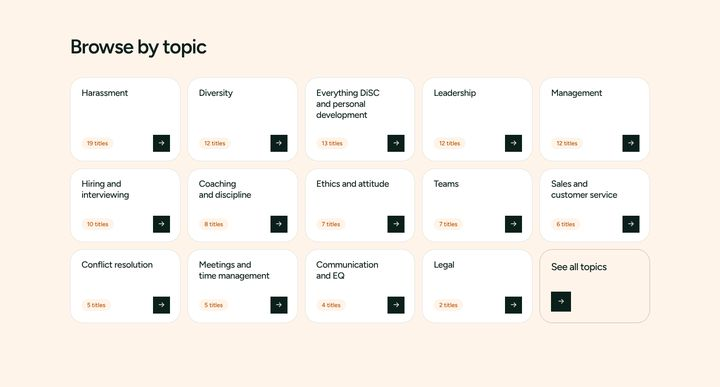
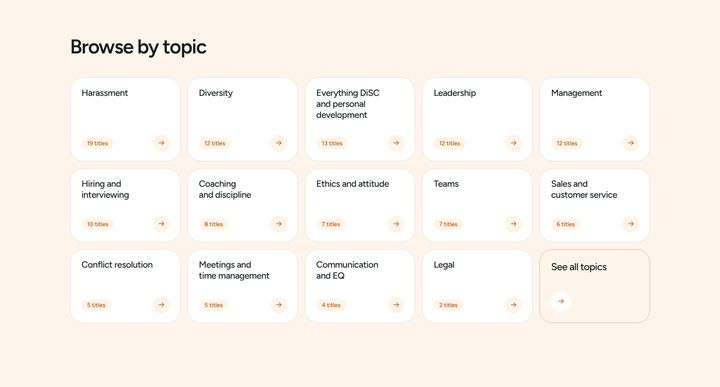
Replace black arrow buttons with soft round accent arrows; fix invalid radius rules
Claude-Session: https://claude.ai/code/session_01XfvvjyBa219y9qsxsCGa1L

diff --git a/home.html b/home.html
@@ -19,7 +19,7 @@
   --quote-bg: #2447F5; --quote-fg: #FFFFFF; --quote-muted: #D5DCFF;
   --cta-bg: #2447F5; --cta-fg: #FFFFFF; --cta-muted: #D5DCFF;
   --foot-bg: #0B1020; --foot-fg: #FFFFFF; --foot-muted: #A3ACC8;
-  --r-card: 28px; --r-img: 20px; --r-btn: 999px; --r-panel: 36px; --r-hero: 40px; --sheet: 56px;
+  --r-card: 28px; --r-img: 20px; --r-btn: 999px; --r-panel: 36px; --r-hero: 40px; --sheet: 56px; --r-round: 50%; --r-logo: 8px;
   --w-d: 500; --w-n: 300; --ls-d: -.045em;
   color-scheme: light;
   --svc-bg: #0B1020; --svc-fg: #FFFFFF; --svc-muted: #A3ACC8;
@@ -62,7 +62,7 @@
   --quote-bg: #0A0A0A; --quote-fg: #FFFFFF; --quote-muted: #BDBDBD;
   --cta-bg: #D92A0E; --cta-fg: #FFFFFF; --cta-muted: #FFFFFF;
   --foot-bg: #0A0A0A; --foot-fg: #FFFFFF; --foot-muted: #A8A8A8;
-  --r-card: 0px; --r-img: 0px; --r-btn: 0px; --r-panel: 0px; --r-hero: 0px; --sheet: 0px;
+  --r-card: 0px; --r-img: 0px; --r-btn: 0px; --r-panel: 0px; --r-hero: 0px; --sheet: 0px; --r-round: 0px; --r-logo: 0px;
   --w-d: 600; --w-n: 700; --ls-d: -.05em;
   --svc-bg: #0A0A0A; --svc-fg: #FFFFFF; --svc-muted: #BDBDBD;
 }
@@ -102,8 +102,8 @@ h2 { font-size: clamp(28px, 3vw, 40px); line-height: 1.08; font-weight: var(--w-
 .btn-ghost { border-color: currentColor; color: var(--hero-fg); opacity: .9; }
 .btn-ghost:hover { background: var(--hero-fg); color: var(--hero-bg); }
 .link { display: inline-flex; align-items: center; gap: 10px; font-weight: 500; }
-.link i { font-style: normal; width: 30px; height: 30px; border-radius: 50%; background: var(--ink); color: var(--paper); display: inline-flex; align-items: center; justify-content: center; transition: transform .25s ease, background .25s ease; }
-.link:hover i { transform: rotate(-45deg); background: var(--accent); color: var(--accent-ink); }
+.link i { font-style: normal; width: 32px; height: 32px; border-radius: var(--r-round); background: var(--pale); color: var(--accent-text); border: 1px solid var(--line); display: inline-flex; align-items: center; justify-content: center; transition: transform .25s ease, background .25s ease, color .25s ease, border-color .25s ease; }
+.link:hover i { transform: rotate(-45deg); background: var(--accent); color: var(--accent-ink); border-color: var(--accent); }
 
 .sheet { position: relative; border-radius: var(--sheet) var(--sheet) 0 0; margin-top: calc(var(--sheet) * -1); padding-top: 104px; }
 .has-sheet-after { padding-bottom: calc(var(--sheet) + 96px); }
@@ -118,7 +118,7 @@ h2 { font-size: clamp(28px, 3vw, 40px); line-height: 1.08; font-weight: var(--w-
 .hero { margin: 12px 12px 0; border-radius: var(--r-hero); background-color: var(--hero-bg); background-image: radial-gradient(var(--dots) 1.2px, transparent 1.5px); background-size: 30px 30px; color: var(--hero-fg); padding-bottom: 150px; position: relative; z-index: 3; }
 .bar { display: flex; align-items: center; justify-content: space-between; gap: 24px; padding-block: 26px; }
 .logo { display: inline-flex; align-items: center; gap: 10px; font-size: 20px; font-weight: 600; letter-spacing: -.03em; }
-.logo i { width: 26px; height: 26px; border-radius: calc(var(--r-btn) > 0 ? 8px : 0px); background: var(--accent); position: relative; display: block; }
+.logo i { width: 26px; height: 26px; border-radius: var(--r-logo); background: var(--accent); position: relative; display: block; }
 .logo i::before, .logo i::after { content: ""; position: absolute; left: 7px; right: 7px; height: 2.5px; border-radius: 2px; background: var(--accent-ink); }
 .logo i::before { top: 9px; }
 .logo i::after { top: 14.5px; right: 11px; }
@@ -189,12 +189,12 @@ h2 { font-size: clamp(28px, 3vw, 40px); line-height: 1.08; font-weight: var(--w-
 .tcard .tf { display: flex; align-items: center; justify-content: space-between; gap: 10px; }
 .tcard .n { font-size: 12px; font-weight: 500; color: var(--accent-text); background: var(--pale); padding: 3px 11px; border-radius: var(--r-btn); transition: background .3s ease, color .3s ease; }
 .tcard:hover .n { background: rgba(255, 255, 255, .22); color: inherit; }
-.tcard i { font-style: normal; width: 34px; height: 34px; border-radius: calc(var(--r-btn) > 0 ? 50% : 0px); background: var(--ink); color: var(--paper); display: inline-flex; align-items: center; justify-content: center; transition: transform .3s ease, background .3s ease, color .3s ease; }
-.tcard:hover i { transform: rotate(-45deg); background: var(--accent-ink); color: var(--accent); }
+.tcard i { font-style: normal; width: 34px; height: 34px; border-radius: var(--r-round); background: var(--pale); color: var(--accent-text); display: inline-flex; align-items: center; justify-content: center; transition: transform .3s ease, background .3s ease, color .3s ease; }
+.tcard:hover i { transform: rotate(-45deg); background: rgba(255, 255, 255, .24); color: inherit; }
 .tmore { display: flex; flex-direction: column; justify-content: space-between; min-height: 148px; border: 1px solid var(--topics-line); border-radius: var(--r-card); padding: 22px; transition: background .3s ease, border-color .3s ease, color .3s ease; }
 .tmore:hover { background: var(--accent); border-color: var(--accent); color: var(--accent-ink); }
 .tmore span { font-size: 20px; font-weight: 500; letter-spacing: -.03em; line-height: 1.2; }
-.tmore i { font-style: normal; width: 40px; height: 40px; border-radius: calc(var(--r-btn) > 0 ? 50% : 0px); background: var(--topics-fg); color: var(--topics-bg); display: inline-flex; align-items: center; justify-content: center; transition: transform .3s ease; }
+.tmore i { font-style: normal; width: 40px; height: 40px; border-radius: var(--r-round); background: var(--card); color: var(--accent-text); display: inline-flex; align-items: center; justify-content: center; transition: transform .3s ease, background .3s ease; }
 .tmore:hover i { transform: rotate(-45deg); }
 
 /* services */
@@ -223,7 +223,7 @@ h2 { font-size: clamp(28px, 3vw, 40px); line-height: 1.08; font-weight: var(--w-
 .quote p { font-size: clamp(18px, 1.7vw, 22px); line-height: 1.4; letter-spacing: -.02em; font-weight: 400; }
 .quote small { display: block; margin-top: 18px; font-size: 13px; color: var(--quote-muted); }
 .quote small em { font-style: normal; font-size: 11px; font-weight: 500; margin-left: 8px; padding: 2px 9px; border: 1px solid currentColor; border-radius: var(--r-btn); white-space: nowrap; }
-.quote .pic { aspect-ratio: 1; border-radius: calc(var(--r-btn) > 0 ? 50% : 0px); border: 5px solid rgba(255, 255, 255, .25); }
+.quote .pic { aspect-ratio: 1; border-radius: var(--r-round); border: 5px solid rgba(255, 255, 255, .25); }
 .learn { margin-top: 56px; display: grid; grid-template-columns: 1.1fr repeat(3, 1fr); gap: 28px; background: var(--pale); border-radius: var(--r-panel); padding: 32px 36px; }
 .learn h3 { font-size: 13px; font-weight: 500; color: var(--ink-2); letter-spacing: 0; }
 .learn p { margin-top: 6px; font-size: 16px; font-weight: 500; letter-spacing: -.015em; }
@@ -313,7 +313,6 @@ footer { background: var(--foot-bg); color: var(--foot-fg); padding-block: 72px 
 [data-theme="d"] .svc .info { border: 1px solid var(--ink); }
 [data-theme="d"] .stat b { font-weight: 700; }
 [data-theme="d"] .quote .pic { border: 0; }
-[data-theme="d"] .link i { background: var(--accent); color: #fff; }
 [data-theme="d"] .cta .kick { color: #fff; }
 [data-theme="d"] .logo i { border-radius: 0; }
 

diff --git a/visual-design-concept.html b/visual-design-concept.html
@@ -15,7 +15,7 @@
   --quote-bg: #2447F5; --quote-fg: #FFFFFF; --quote-muted: #D5DCFF;
   --cta-bg: #2447F5; --cta-fg: #FFFFFF; --cta-muted: #D5DCFF;
   --foot-bg: #0B1020; --foot-fg: #FFFFFF; --foot-muted: #A3ACC8;
-  --r-card: 28px; --r-img: 20px; --r-btn: 999px; --r-panel: 36px; --r-hero: 40px; --sheet: 56px;
+  --r-card: 28px; --r-img: 20px; --r-btn: 999px; --r-panel: 36px; --r-hero: 40px; --sheet: 56px; --r-round: 50%; --r-logo: 8px;
   --w-d: 500; --w-n: 300; --ls-d: -.045em;
   color-scheme: light;
   --svc-bg: #0B1020; --svc-fg: #FFFFFF; --svc-muted: #A3ACC8;
@@ -58,7 +58,7 @@
   --quote-bg: #0A0A0A; --quote-fg: #FFFFFF; --quote-muted: #BDBDBD;
   --cta-bg: #D92A0E; --cta-fg: #FFFFFF; --cta-muted: #FFFFFF;
   --foot-bg: #0A0A0A; --foot-fg: #FFFFFF; --foot-muted: #A8A8A8;
-  --r-card: 0px; --r-img: 0px; --r-btn: 0px; --r-panel: 0px; --r-hero: 0px; --sheet: 0px;
+  --r-card: 0px; --r-img: 0px; --r-btn: 0px; --r-panel: 0px; --r-hero: 0px; --sheet: 0px; --r-round: 0px; --r-logo: 0px;
   --w-d: 600; --w-n: 700; --ls-d: -.05em;
   --svc-bg: #0A0A0A; --svc-fg: #FFFFFF; --svc-muted: #BDBDBD;
 }
@@ -98,8 +98,8 @@ h2 { font-size: clamp(28px, 3vw, 40px); line-height: 1.08; font-weight: var(--w-
 .btn-ghost { border-color: currentColor; color: var(--hero-fg); opacity: .9; }
 .btn-ghost:hover { background: var(--hero-fg); color: var(--hero-bg); }
 .link { display: inline-flex; align-items: center; gap: 10px; font-weight: 500; }
-.link i { font-style: normal; width: 30px; height: 30px; border-radius: 50%; background: var(--ink); color: var(--paper); display: inline-flex; align-items: center; justify-content: center; transition: transform .25s ease, background .25s ease; }
-.link:hover i { transform: rotate(-45deg); background: var(--accent); color: var(--accent-ink); }
+.link i { font-style: normal; width: 32px; height: 32px; border-radius: var(--r-round); background: var(--pale); color: var(--accent-text); border: 1px solid var(--line); display: inline-flex; align-items: center; justify-content: center; transition: transform .25s ease, background .25s ease, color .25s ease, border-color .25s ease; }
+.link:hover i { transform: rotate(-45deg); background: var(--accent); color: var(--accent-ink); border-color: var(--accent); }
 
 .sheet { position: relative; border-radius: var(--sheet) var(--sheet) 0 0; margin-top: calc(var(--sheet) * -1); padding-top: 104px; }
 .has-sheet-after { padding-bottom: calc(var(--sheet) + 96px); }
@@ -114,7 +114,7 @@ h2 { font-size: clamp(28px, 3vw, 40px); line-height: 1.08; font-weight: var(--w-
 .hero { margin: 12px 12px 0; border-radius: var(--r-hero); background-color: var(--hero-bg); background-image: radial-gradient(var(--dots) 1.2px, transparent 1.5px); background-size: 30px 30px; color: var(--hero-fg); padding-bottom: 150px; position: relative; z-index: 3; }
 .bar { display: flex; align-items: center; justify-content: space-between; gap: 24px; padding-block: 26px; }
 .logo { display: inline-flex; align-items: center; gap: 10px; font-size: 20px; font-weight: 600; letter-spacing: -.03em; }
-.logo i { width: 26px; height: 26px; border-radius: calc(var(--r-btn) > 0 ? 8px : 0px); background: var(--accent); position: relative; display: block; }
+.logo i { width: 26px; height: 26px; border-radius: var(--r-logo); background: var(--accent); position: relative; display: block; }
 .logo i::before, .logo i::after { content: ""; position: absolute; left: 7px; right: 7px; height: 2.5px; border-radius: 2px; background: var(--accent-ink); }
 .logo i::before { top: 9px; }
 .logo i::after { top: 14.5px; right: 11px; }
@@ -185,12 +185,12 @@ h2 { font-size: clamp(28px, 3vw, 40px); line-height: 1.08; font-weight: var(--w-
 .tcard .tf { display: flex; align-items: center; justify-content: space-between; gap: 10px; }
 .tcard .n { font-size: 12px; font-weight: 500; color: var(--accent-text); background: var(--pale); padding: 3px 11px; border-radius: var(--r-btn); transition: background .3s ease, color .3s ease; }
 .tcard:hover .n { background: rgba(255, 255, 255, .22); color: inherit; }
-.tcard i { font-style: normal; width: 34px; height: 34px; border-radius: calc(var(--r-btn) > 0 ? 50% : 0px); background: var(--ink); color: var(--paper); display: inline-flex; align-items: center; justify-content: center; transition: transform .3s ease, background .3s ease, color .3s ease; }
-.tcard:hover i { transform: rotate(-45deg); background: var(--accent-ink); color: var(--accent); }
+.tcard i { font-style: normal; width: 34px; height: 34px; border-radius: var(--r-round); background: var(--pale); color: var(--accent-text); display: inline-flex; align-items: center; justify-content: center; transition: transform .3s ease, background .3s ease, color .3s ease; }
+.tcard:hover i { transform: rotate(-45deg); background: rgba(255, 255, 255, .24); color: inherit; }
 .tmore { display: flex; flex-direction: column; justify-content: space-between; min-height: 148px; border: 1px solid var(--topics-line); border-radius: var(--r-card); padding: 22px; transition: background .3s ease, border-color .3s ease, color .3s ease; }
 .tmore:hover { background: var(--accent); border-color: var(--accent); color: var(--accent-ink); }
 .tmore span { font-size: 20px; font-weight: 500; letter-spacing: -.03em; line-height: 1.2; }
-.tmore i { font-style: normal; width: 40px; height: 40px; border-radius: calc(var(--r-btn) > 0 ? 50% : 0px); background: var(--topics-fg); color: var(--topics-bg); display: inline-flex; align-items: center; justify-content: center; transition: transform .3s ease; }
+.tmore i { font-style: normal; width: 40px; height: 40px; border-radius: var(--r-round); background: var(--card); color: var(--accent-text); display: inline-flex; align-items: center; justify-content: center; transition: transform .3s ease, background .3s ease; }
 .tmore:hover i { transform: rotate(-45deg); }
 
 /* services */
@@ -219,7 +219,7 @@ h2 { font-size: clamp(28px, 3vw, 40px); line-height: 1.08; font-weight: var(--w-
 .quote p { font-size: clamp(18px, 1.7vw, 22px); line-height: 1.4; letter-spacing: -.02em; font-weight: 400; }
 .quote small { display: block; margin-top: 18px; font-size: 13px; color: var(--quote-muted); }
 .quote small em { font-style: normal; font-size: 11px; font-weight: 500; margin-left: 8px; padding: 2px 9px; border: 1px solid currentColor; border-radius: var(--r-btn); white-space: nowrap; }
-.quote .pic { aspect-ratio: 1; border-radius: calc(var(--r-btn) > 0 ? 50% : 0px); border: 5px solid rgba(255, 255, 255, .25); }
+.quote .pic { aspect-ratio: 1; border-radius: var(--r-round); border: 5px solid rgba(255, 255, 255, .25); }
 .learn { margin-top: 56px; display: grid; grid-template-columns: 1.1fr repeat(3, 1fr); gap: 28px; background: var(--pale); border-radius: var(--r-panel); padding: 32px 36px; }
 .learn h3 { font-size: 13px; font-weight: 500; color: var(--ink-2); letter-spacing: 0; }
 .learn p { margin-top: 6px; font-size: 16px; font-weight: 500; letter-spacing: -.015em; }
@@ -301,7 +301,6 @@ footer { background: var(--foot-bg); color: var(--foot-fg); padding-block: 72px 
 [data-theme="d"] .svc .info { border: 1px solid var(--ink); }
 [data-theme="d"] .stat b { font-weight: 700; }
 [data-theme="d"] .quote .pic { border: 0; }
-[data-theme="d"] .link i { background: var(--accent); color: #fff; }
 [data-theme="d"] .cta .kick { color: #fff; }
 [data-theme="d"] .logo i { border-radius: 0; }
 
